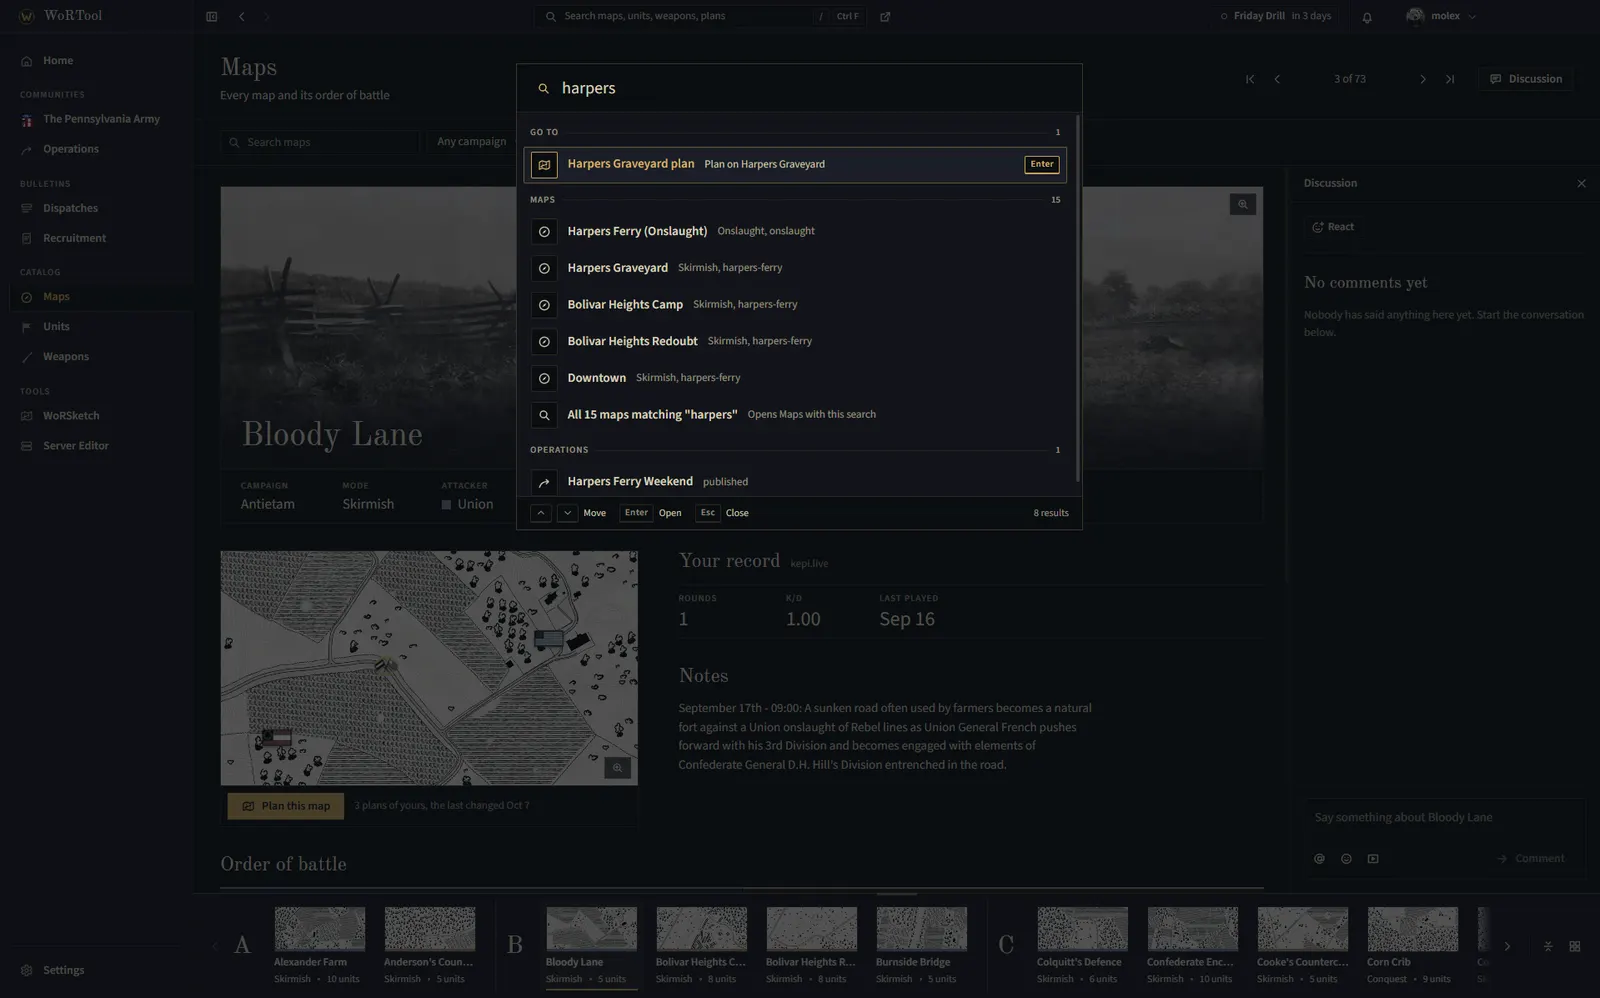
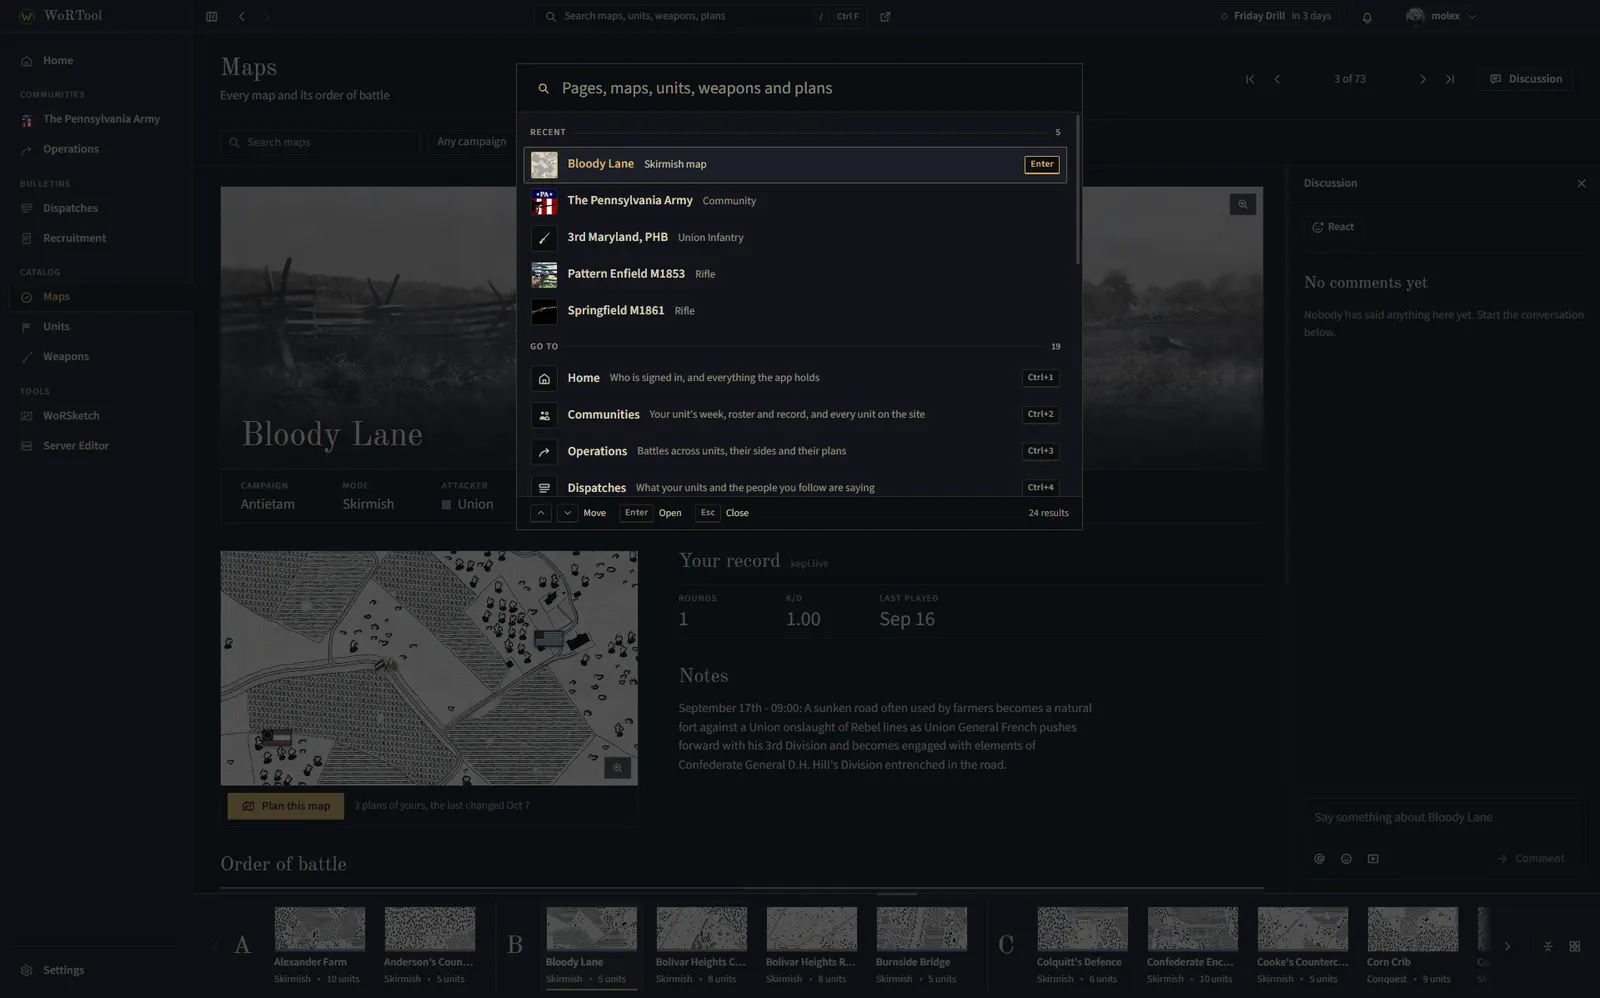
Show the larger Home pick-up row and search's recent records from 0.1.92 in the README

diff --git a/README.md b/README.md
@@ -42,7 +42,7 @@
   <tr>
     <td align="center" width="33%"><a href=".github/assets/screens/units.webp"><img src=".github/assets/screens/units.webp" width="260" alt="A combat unit's loadout, record and the maps it fights on"/></a><br/><sub><b>Units</b><br/>Loadouts and where they fight</sub></td>
     <td align="center" width="33%"><a href=".github/assets/screens/recruitment.webp"><img src=".github/assets/screens/recruitment.webp" width="260" alt="Recruitment notices from units taking players, one open beside the list"/></a><br/><sub><b>Recruitment</b><br/>Units looking for players</sub></td>
-    <td align="center" width="33%"><a href=".github/assets/screens/search.webp"><img src=".github/assets/screens/search.webp" width="260" alt="The search open over a map, listing a plan and maps that match"/></a><br/><sub><b>Keyboard first</b><br/>Any page, a keystroke away</sub></td>
+    <td align="center" width="33%"><a href=".github/assets/screens/search.webp"><img src=".github/assets/screens/search.webp" width="260" alt="The search open over a map before anything is typed, leading with the records opened last by their crests and pictures"/></a><br/><sub><b>Keyboard first</b><br/>Any page, a keystroke away</sub></td>
   </tr>
 </table>
 
